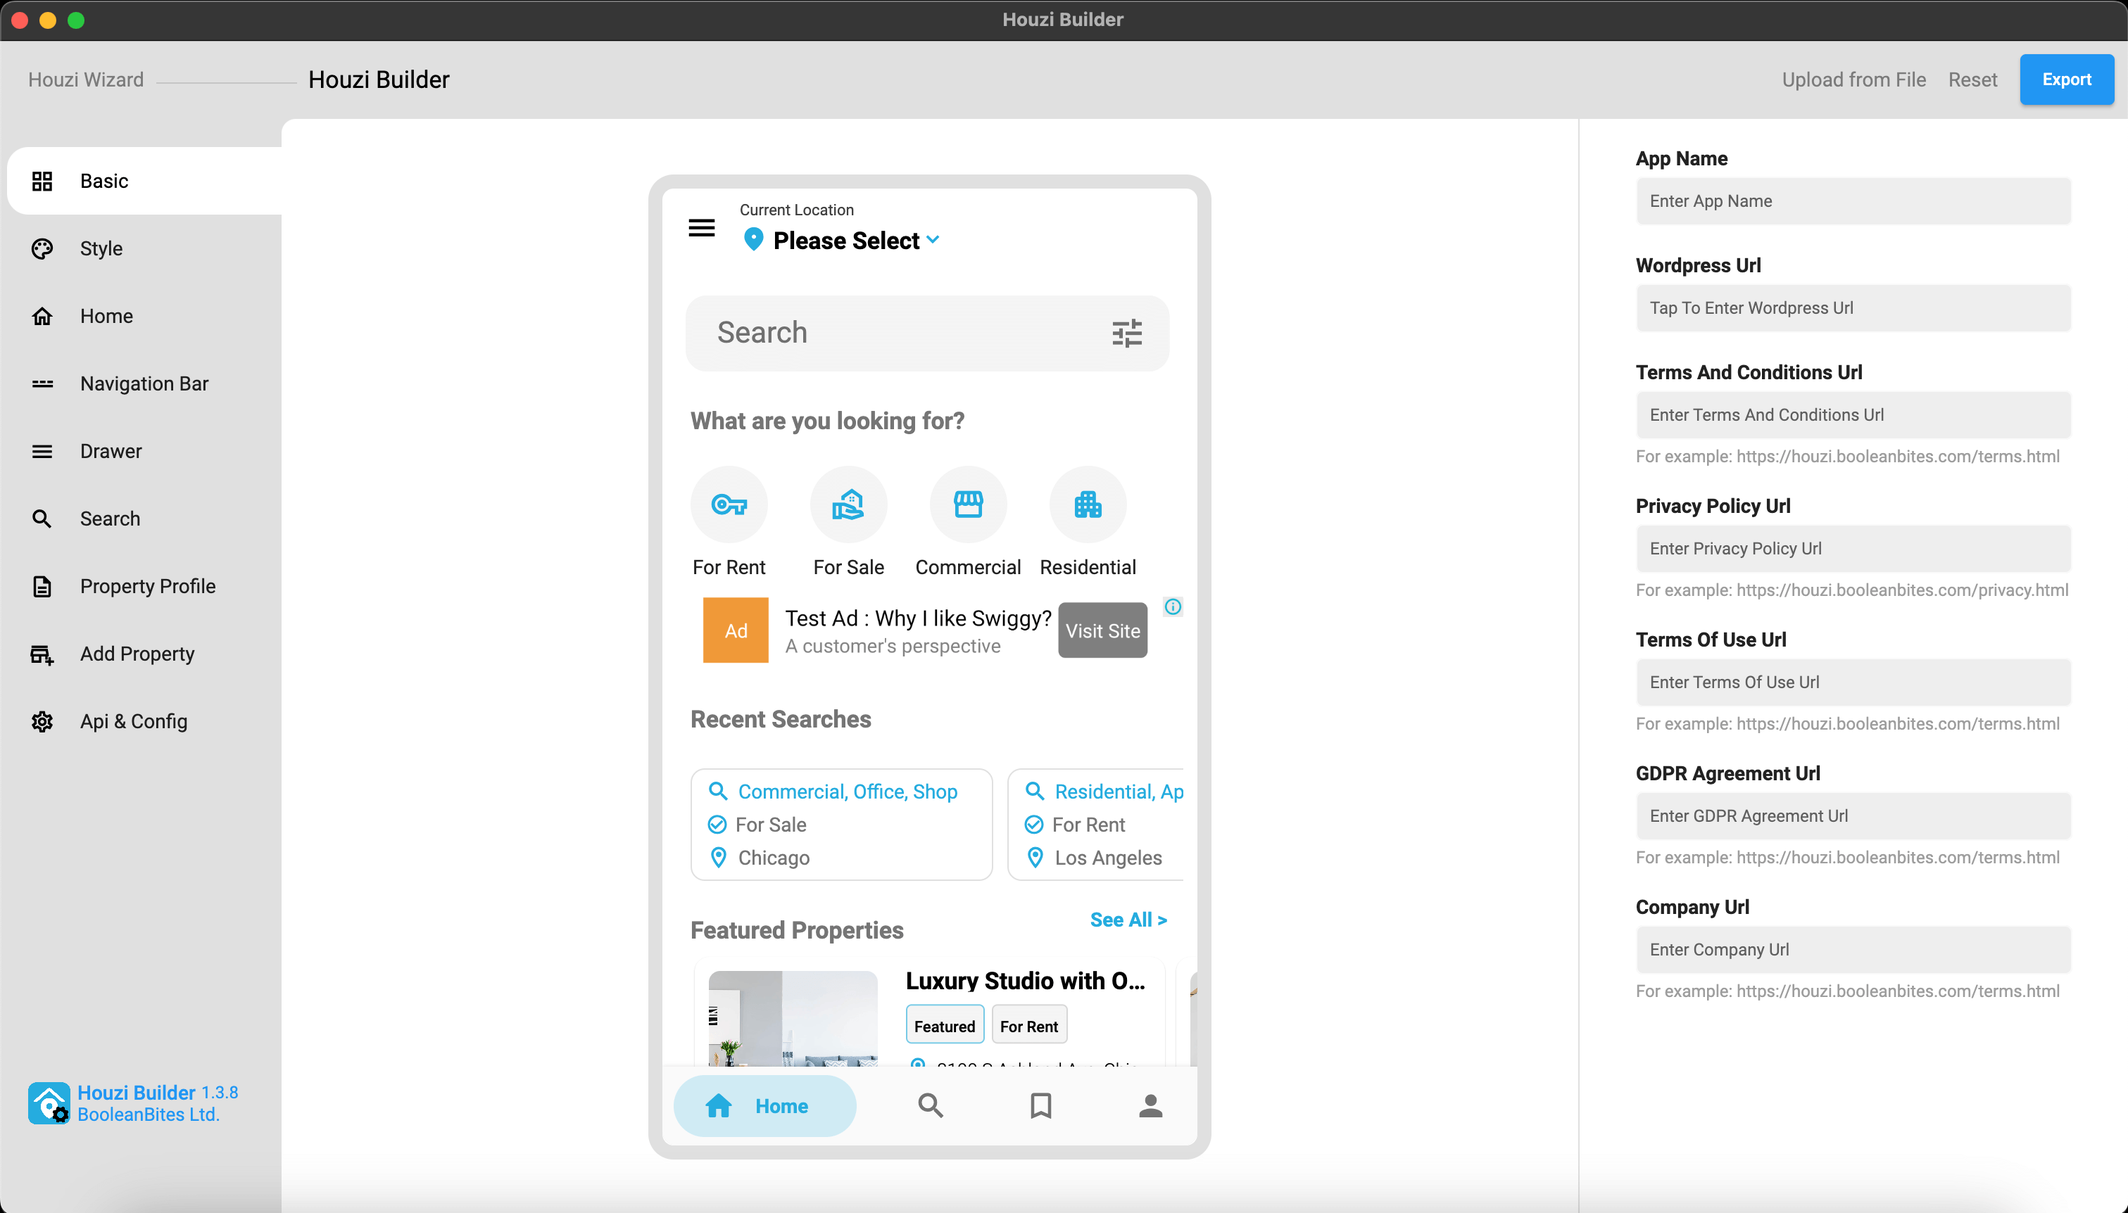
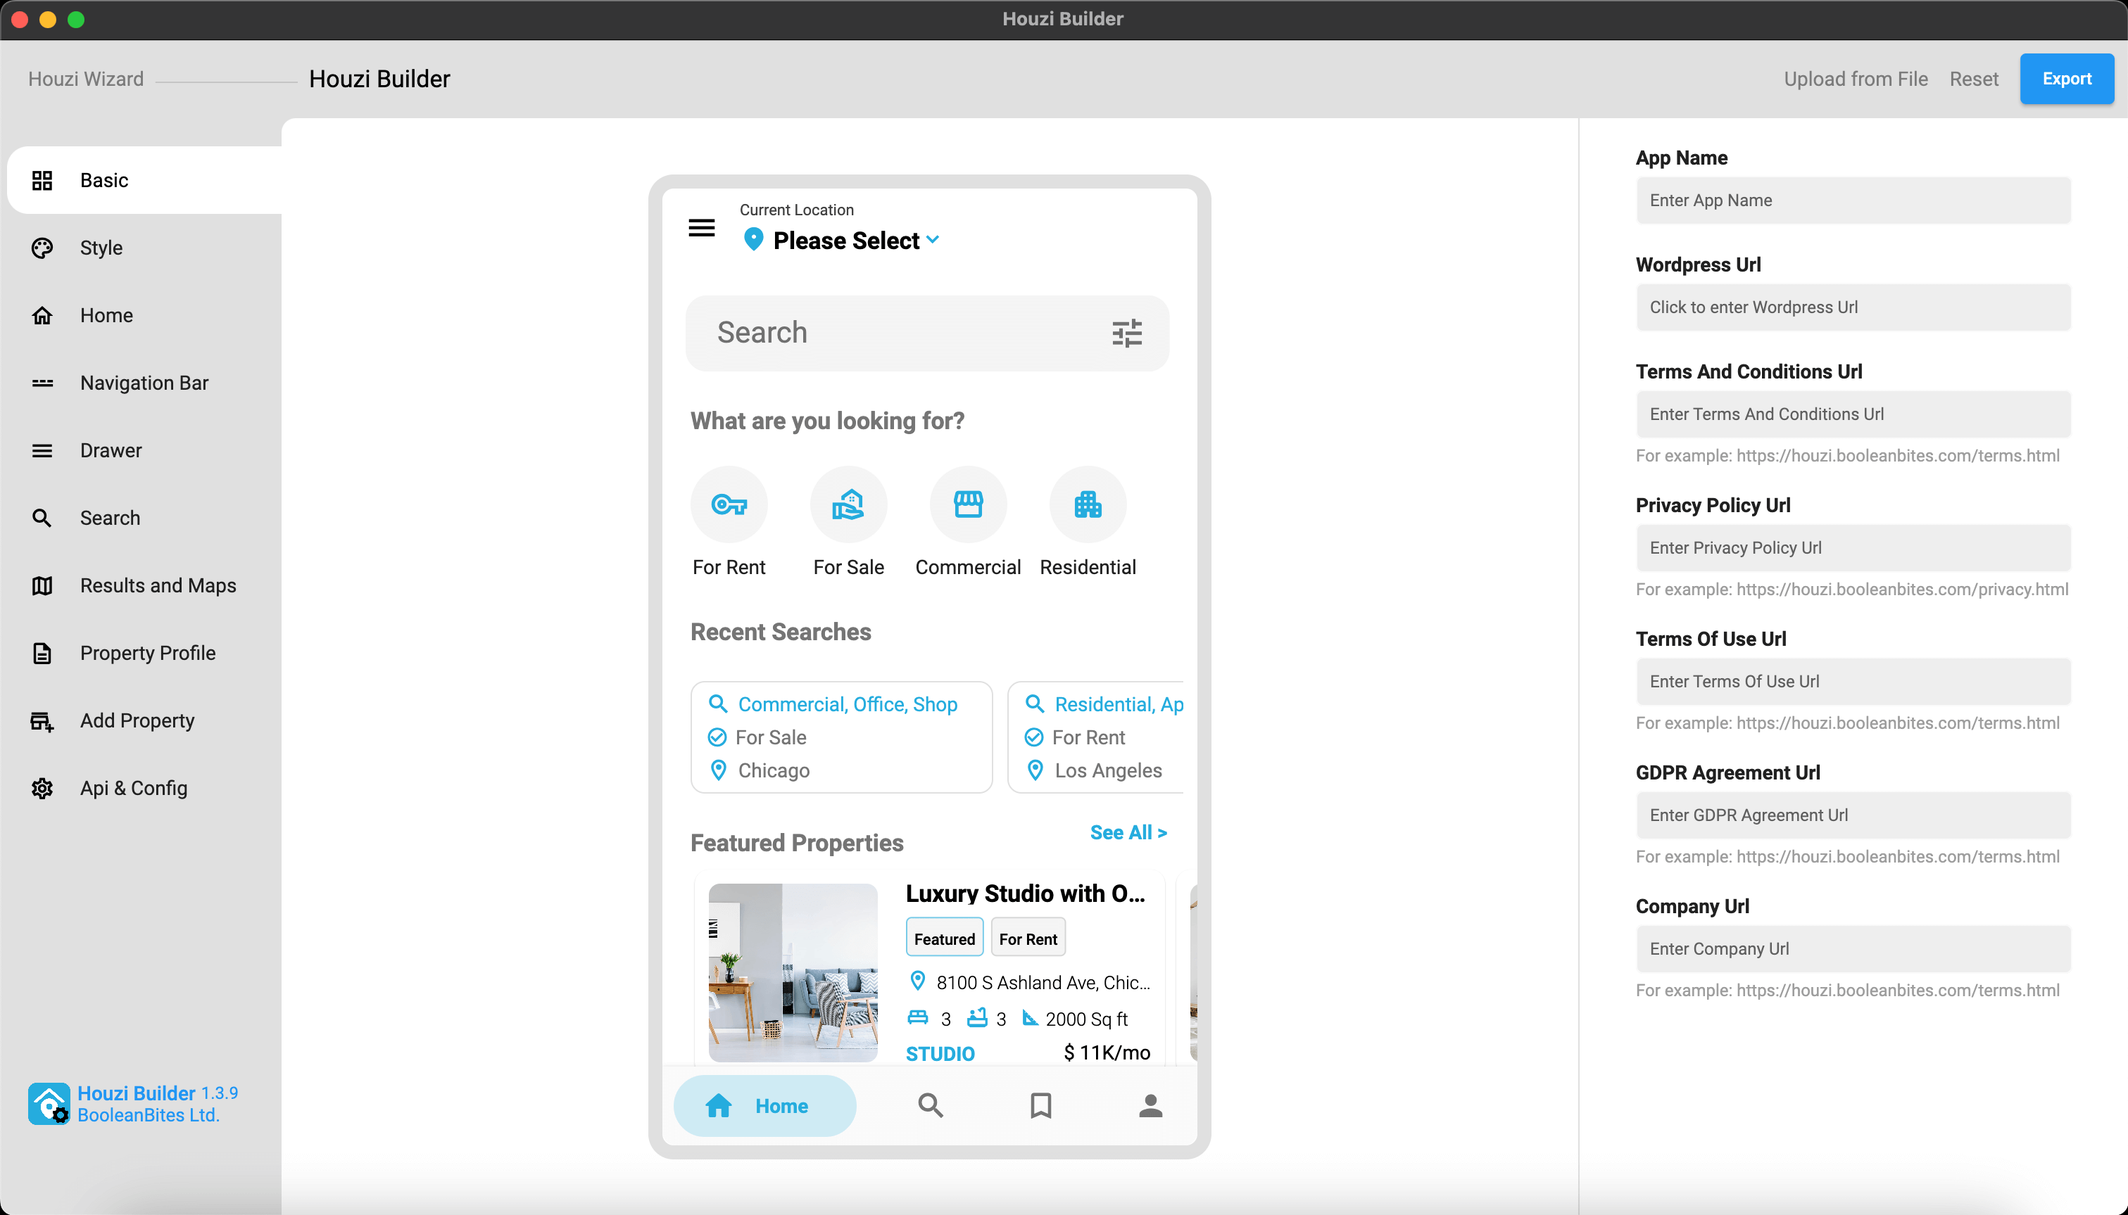
Updated menu items main screen views (included the Results and Maps menu).

diff --git a/_docs/houzi-builder/10_customize-results-and-maps.md b/_docs/houzi-builder/10_customize-results-and-maps.md
@@ -1,0 +1,305 @@
+---
+title: Customize Results and Maps
+category: Houzi Builder
+permalink: houzi-builder/customize_results_and_maps
+order: 410
+---
+
+> **Important**: You are required to install the Houzi Rest Api Plugin on your Houzez wordpress. To install the Plug-in, click on [Houzi Rest Api Plugin Link](https://github.com/booleanbites/houzi-rest-api).
+
+> A **Mobile App View** is provided in the center of screen, so you can see how the modifications will look on real device.  
+
+<img src="../../images/search-screenshot.png" alt="search-screenshot" title="search-screenshot" border= "1px solid"/>  
+
+> You can **Enable** *Cupertino Sliding Segment Control* instead of using Material Segment Control from [Api and Config](../houzi-builder/api_config_setup) section. 
+
+This guide consists of following sections:
+
+[Add New Section](#add-new-section)  
+[Edit a Section](#edit-a-section)  
+[Delete a Section](#delete-a-section)  
+[Re-arrange a Section](#re-arrange-a-section)  
+
+Let's dive into the details of each section.  
+
+---  
+
+
+# Add New Section 
+
+There is a **Add** button at the bottom of the column. Press this button and a dialog box will open.  
+
+  <img src="../../images/search-add-section-screenshot.png" alt="search-add-section-screenshot" title="search-add-section-screenshot" width= 300 border= "1px solid"/>  
+
+You will encounter following fields on the dialog box:
+
+[Widget Type](#widget-type)  
+[Title](#title)  
+[Data Type](#data-type)  
+[Api Value](#api-value)  
+[Picker Type](#picker-type)  
+[Additional Fields](#additional-fields)  
+
+### Widget Type:
+
+You are provided with the dropdown list of  **Widget Types**. The details of widget types are as follows: 
+
+* **term_picker:** If you want to search properties w.r.t. their
+    - *Types* (e.g. apartment, office etc.)
+    - *Status* (e.g. for-rent, for-sale etc.)
+    - *Label* (e.g. hot-offer, open-house etc.)
+    - *Features* (e.g. Air-Conditioning, Swimming-pool etc.)
+
+* **sequential_location_picker:** If you want to search properties w.r.t. their location and you do not want to use multiple pickers (e.g. one term picker for country, another for state, location picker for city and another term picker for the area input). You can simply use "**sequential_location_picker**".  You can enable/disable any location related term from the multi-select menu. Search with sequential_location_picker provide suppport for the following terms.
+  - *property_country*.
+  - *property_state*.
+  - *property_city*.
+  - *property_area*.
+
+* **location_picker:** If you want to search properties w.r.t. their
+    - *City*
+    - *Location*
+
+* **range_picker:** If you want to search properties w.r.t. their
+    - *Area*
+    - *Price*
+
+* **string_picker:** If you want to search properties w.r.t. specific attributes like
+    - *Bedrooms*
+    - *Bathrooms*
+ 
+* **keyword_picker:** If you want to search properties w.r.t. some keywords e.g. Modern appartment with 2 bedrooms and 2 bathrooms etc.
+
+* **custom_keyword_picker:** If you want to search properties w.r.t. some specified keywords.
+
+* **keyword_custom_query_picker:** If you want to search properties w.r.t. some customized keyword query. You can define the *keyword* and send your custom query on its behalf.  
+
+* **custom_field_picker:** If you want to search properties w.r.t. some custom field attributes. 
+
+  <img src="../../images/search-widget-types-screenshot.png" alt="search-widget-types-screenshot" title="search-widget-types-screenshot" width= 300 border= "1px solid"/>   
+
+  > **Custom Field Picker** depends upon the data of you website. If you have not defined any custom field, this picker would not available.  
+
+
+### Title:
+
+*Title* is label that will be displayed on the *Search Page. Define the **Title** of the section.
+
+
+### Data Type:
+
+You are provided with the dropdown list of **Data Types**. You can define the *Data Type* of the various sections as follows: 
+
+* If selected *Widget Type* is **term_picker**, you can select from following data types:  
+
+  - **property_type** (To search properties w.r.t. their type e.g. apartment, office etc.)
+
+  - **property_status** (To search properties w.r.t. their status e.g. for-rent, for-sale etc.)
+
+  - **property_feature** (To search properties w.r.t. their features e.g. Air-Conditioning, Swimming-pool etc.)
+
+  - **property_label** (To search properties w.r.t. their Label e.g. hot-offer, open-house etc.)
+
+  - **property_country** (To search properties w.r.t. Country)
+
+  - **property_state** (To search properties w.r.t. States)
+
+  - **property_city** (To search properties w.r.t. City)
+
+  - **property_area** (To search properties w.r.t. Area)
+
+    <img src="../../images/search-property-type-datatype-screenshot.png" alt="search-property-type-datatype-screenshot" title="search-property-type-datatype-screenshot" width= 300 border= "1px solid"/>
+
+  > Above displayed **Data Types** are *generic houzez taxonomies*. You may encounter all or some of these options, according to the data of your website.
+
+    
+* If selected *Widget Type* is **range_picker**, you can select from following data types:  
+
+  - **area** (To search properties within specific range of *area*)
+
+  - **price** (To search properties within specific range of *price*)
+
+    <img src="../../images/search-range-picker-area-datatype-screenshot.png" alt="search-range-picker-area-datatype-screenshot" title="search-range-picker-area-datatype-screenshot" width=300 border= "1px solid"/>  
+
+* If selected *Widget Type* is **string_picker**, you can select from following data types:  
+
+  - **bedrooms** (To search properties w.r.t. specific number of *bedrooms*)
+
+  - **bathrooms** (To search properties w.r.t. specific number of *bathrooms*)
+
+    <img src="../../images/search-string-picker-bedrooms-datatype-screenshot.png" alt="search-string-picker-bedrooms-datatype-screenshot" title="search-string-picker-bedrooms-datatype-screenshot" width=300 border= "1px solid"/>
+
+> All the other *Widget Types* have *Default* Data Types. 
+
+### Api Value:
+
+Each section has its by default **Api Value**.
+
+
+### Picker Type:
+
+You are provided with the dropdown list of  **Picker Types**. The details of picker types are as follows: 
+
+
+- If selected *Widget Type* is **term_picker**, you can select from following picker types:  
+
+  - **tabs and chips:** To view properties related categories and sub-categories data in the form of *Tabs and Chips*.
+
+  - **dropdown:** To view properties related categories and sub-categories data in the form of *Dropdown*.
+
+  - **full_screen:** To view properties related categories and sub-categories data in the form of *full_screen* menu. A new page will open, listing all the property related catagories with additional *Search Bar* to search required catagory with ease.
+
+  - **box:** To view properties related categories and sub-categories data in the form of *Grid View* having 3 catagories per row with their icons and titles.
+
+    <img src="../../images/search-term-picker-pickertype-screenshot.png" alt="search-term-picker-pickertype-screenshot" title="search-term-picker-pickertype-screenshot" width=300 border= "1px solid"/>
+
+  - If selected *Widget Type* is **string_picker**, you can select from following picker types:  
+
+  - **chips:** To view properties related arrtibutes in the form of *Chips*.
+
+  - **tabs:** To view properties related arrtibutes in the form of *Tabs*.
+
+    <img src="../../images/search-string-picker-pickertype-screenshot.png" alt="search-string-picker-pickertype-screenshot" title="search-string-picker-pickertype-screenshot" width=300 border= "1px solid"/>
+
+- If selected *Widget Type* is **custom_keyword_picker**, you can select from following picker types:  
+
+  - **text_field:** To take *Keyword* input from the user.
+
+  - **dropdown:** To provide users, a list of specified keywords in the form of *Dropdown Menu*.
+
+  - **string_picker:** To provide users, specified keywords in the form of *Tabs* or *Chips*.
+
+    <img src="../../images/search-custom-keyword-picker-pickertype-screenshot.png" alt="search-custom-keyword-picker-pickertype-screenshot" title="search-custom-keyword-picker-pickertype-screenshot" width=300 border= "1px solid"/>
+
+- If selected *Widget Type* is **keyword_custom_query_picker**, you can select from following picker types:
+
+  - **switch**
+
+  - **checkbox**
+
+    <img src="../../images/search-keyword-custom-query-picker-pickertype-screenshot.png" alt="search-keyword-custom-query-picker-pickertype-screenshot" title="search-keyword-custom-query-picker-pickertype-screenshot" width=300 border= "1px solid"/>
+
+> All the other *Widget Types* have *Default* Picker Type. 
+
+### Additional Fields
+
+You can define some additional customizations for some sections. For this purpose you are provided with some **Additional fields**. Their details are as follows:
+
+
+- If selected *Widget Type* is **location_picker**, you can set the value for the **Default Radius**. You can choose either to show **Search By City** or **Search By Location** or you can choose to show both.
+
+  <img src="../../images/default-radius.png" alt="default-radius" title="default-radius" width= 300 border= "1px solid"/> 
+  
+  <img src="../../images/location-picker-additional-fields.png" alt="location-picker-additional-fields" title="location-picker-additional-fields" width= 300 border= "1px solid"/> 
+
+- If selected *Widget Type* is **sequential_location_picker**, you can customize the **Location Picker Hierarchy** form the  multi-select dropdown menu.
+
+  <img src="../../images/slp-hierarchy-01.png" alt="slp-hierarchy-01" title="slp-hierarchy-01" width= 300 border= "1px solid"/> 
+  
+  <img src="../../images/slp-hierarchy-02.png" alt="slp-hierarchy-02" title="slp-hierarchy-02" width= 300 border= "1px solid"/> 
+
+- If selected *Widget Type* is **range_picker**, you can define the *minimun* and *maximun* range of section in **Min Value**, **Max Value** and **Steps** fields. 
+
+    <img src="../../images/range-picker-additional-fields.png" alt="range-picker-additional-fields" title="range-picker-additional-fields" width= 300 border= "1px solid"/>  
+
+- If selected *Widget Type* is **term_picker**, you can define the query type from dropdown menu in **Query Type** field. 
+
+  - **OR Query Type:** If you want that search properties which may include this specific **term**, use *OR* query type.
+
+  - **AND Query Type:** If you want that search properties which must include this specific **term**, use *AND* query type. 
+
+      <img src="../../images/query-type-field-screenshot.png" alt="query-type-field-screenshot" title="query-type-field-screenshot" width= 300 border= "1px solid"/> 
+
+      <img src="../../images/query-type-options-screenshot.png" alt="query-type-options-screenshot" title="query-type-options-screenshot" width= 300 border= "1px solid"/> 
+
+- If the selecetd *Widget Type* is **string_picker** you can define your comma seperated specific options for the picker in the **Options** field.
+    
+    <img src="../../images/options-additonal-field.png" alt="options-additonal-field" title="options-additonal-field" width= 300 border= "1px solid"/>
+
+- If selected *Widget Type* is **custom_keyword_picker**, you can define the **Unique key** and **Query Type**.  
+
+    <img src="../../images/search-custom-keyword-picker-dialog.png" alt="search-custom-keyword-picker-dialog" title="search-custom-keyword-picker-dialog" width=300 height=600 border= "1px solid"/>
+
+  - **Unique key** (Assign a unique key to this field e.g. *keyword-some-text*.)
+
+  - **Query Type**: (Assign a query type to this field from the dropdown menu.) It has two following types:
+
+    - **OR Query Type:** If you want that search properties which may include this specific keyword, use *OR* query type.
+
+    - **AND Query Type:** If you want that search properties which must include this specific keyword, use *AND* query type.  
+
+      <img src="../../images/query-type-field-screenshot.png" alt="query-type-field-screenshot" title="query-type-field-screenshot" width= 300 border= "1px solid"/> 
+
+      <img src="../../images/query-type-options-screenshot.png" alt="query-type-options-screenshot" title="query-type-options-screenshot" width= 300 border= "1px solid"/> 
+
+- If selected *Widget Type* is **custom_keyword_picker** and *Picker Type* is **dropdown** or **string_picker**. There are some additional fields as:
+
+    - If the selecetd field is **dropdown** you can define your comma seperated specific keywords in **Options** field.  
+
+      <img src="../../images/search-custom-keyword-picker-dialog-01.png" alt="search-custom-keyword-picker-dialog-01" title="search-custom-keyword-picker-dialog-01" width=300 border= "1px solid"/>  
+      
+    - If the selecetd field is **string_picker** you can define your comma seperated specific keywords in **Options** field. You can also specify *Sub-Picker Type* of *string_picker* i.e. *Chips* or *Tabs*.  
+
+      <img src="../../images/search-custom-keyword-picker-dialog-02.png" alt="search-custom-keyword-picker-dialog-02" title="search-custom-keyword-picker-dialog-02" width=300 border= "1px solid"/>  
+
+    - **Sub-Picker Types:**  
+
+      <img src="../../images/search-custom-keyword-picker-dialog-03.png" alt="search-custom-keyword-picker-dialog-03" title="search-custom-keyword-picker-dialog-03" width=300 border="1px solid"/>  
+
+  - If selected *Widget Type* is **keyword_custom_query_picker**, you can define the **Options**, **Unique key** and **Query Type**.  
+
+    <img src="../../images/search-keyword-custom-query-picker-dialog.png" alt="search-keyword-custom-query-picker-dialog" title="search-keyword-custom-query-picker-dialog" width=300 height=650 border= "1px solid"/>  
+
+  - **Options** (Define your comma seperated custom keyword query in this field.)
+
+  - **Unique key** (Assign a unique key to this field e.g. *keyword-some-text*.)
+
+  - **Query Type**: (Assign a query type to this field from the dropdown menu.) It has two following types:
+
+    - **OR Query Type** If you want that search properties which may include this specific keyword, use *OR* query type.
+
+    - **AND Query Type** If you want that search properties which must include this specific keyword, use *AND* query type.
+
+      <img src="../../images/query-type-field-screenshot.png" alt="query-type-field-screenshot" title="query-type-field-screenshot" width= 300 border= "1px solid"/> 
+
+      <img src="../../images/query-type-options-screenshot.png" alt="query-type-options-screenshot" title="query-type-options-screenshot" width= 300 border= "1px solid"/> 
+    
+> Click `Done` to *add* the new section.  
+  Click `Cancel` to *discard* the action. 
+
+
+---
+
+## Edit a Section
+
+You can **Edit** the sections just by clicking on **Edit Icon** of respective section. While editing a section, you can perform following actions:
+
+- Modify section [Widget Type](#widget-type).
+- Modify section [Title](#title).
+- Modify section [Data Type](#data-type).
+- Modify section [Api Value](#api-value).
+- Modify section [Picker Type](#picker-type).
+- Modify section [Additional Fields](#additional-fields).
+
+---
+
+## Delete a Section
+
+You can **Delete** any section just by clicking on *delete icon* of respective section. A delete confirmation dialog will open.  
+
+  <img src="../../images/search-list-tile-screenshot.png" alt="search-list-tile-screenshot" title="search-list-tile-screenshot" width=300 border= "1px solid"/>  
+
+  <img src="../../images/search-delete-section-screenshot.png" alt="search-delete-section-screenshot" title="search-delete-section-screenshot" width=300 border= "1px solid"/>  
+  
+> Click **Delete** if you want to *delete* the section.  
+  Click **Cancel** if you want to *discard* the action. 
+
+---
+
+## Re-arrange a Section
+
+You can **Re-arrange** the sections on **Search Page**. Hold the section that you want to re-arrange and move it vertically (*upwards* or *downwards*). Place it on desire position in sections list.
+
+<img src="../../images/search-re-arrange-01.png" alt="search-re-arrange-01" title="search-re-arrange-01" width= 400 border= "1px solid"/> 
+
+<img src="../../images/search-re-arrange-02.png" alt="search-re-arrange-02" title="search-re-arrange-02" width= 400 border= "1px solid"/> 

diff --git a/_docs/houzi-builder/12_customize-add-property-form.md b/_docs/houzi-builder/12_customize-add-property-form.md
@@ -2,7 +2,7 @@
 title: Customize Add Property Form
 category: Houzi Builder
 permalink: houzi-builder/customize_add_property_form
-order: 411
+order: 412
 ---
 
 > **Important**: You are required to install the Houzi Rest Api Plugin on your Houzez wordpress. To install the Plug-in, click on [Houzi Rest Api Plugin Link](https://github.com/booleanbites/houzi-rest-api).

diff --git a/_docs/houzi-builder/11_customize-property-profile.md b/_docs/houzi-builder/11_customize-property-profile.md
@@ -2,7 +2,7 @@
 title: Customize Property Profile
 category: Houzi Builder
 permalink: houzi-builder/customize_property_profile
-order: 410
+order: 411
 ---
 
 > **Important**: You are required to install the Houzi Rest Api Plugin on your Houzez wordpress. To install the Plug-in, click on [Houzi Rest Api Plugin Link](https://github.com/booleanbites/houzi-rest-api).

diff --git a/_docs/houzi-builder/13_api-and-configurations-setup.md b/_docs/houzi-builder/13_api-and-configurations-setup.md
@@ -2,7 +2,7 @@
 title: Api and Configurations Setup
 category: Houzi Builder
 permalink: houzi-builder/api_config_setup
-order: 412
+order: 413
 ---
 
 > **Important**: You are required to install the Houzi Rest API Plug-in on your Houzez wordpress. To install the Plug-in, click on [Houzi Rest Api Plugin Link](https://github.com/booleanbites/houzi-rest-api).

diff --git a/_docs/houzi-builder/15_edit-configurations.md b/_docs/houzi-builder/15_edit-configurations.md
@@ -2,7 +2,7 @@
 title: Edit/Update Configurations
 category: Houzi Builder
 permalink: houzi-builder/edit_configuration
-order: 414
+order: 415
 ---
 
 > **Important**: You are required to install the Houzi Rest Api Plugin on your Houzez wordpress. To install the Plug-in, click on [Houzi Rest Api Plugin Link](https://github.com/booleanbites/houzi-rest-api).

diff --git a/_docs/houzi-builder/14_export-configurations.md b/_docs/houzi-builder/14_export-configurations.md
@@ -2,7 +2,7 @@
 title: Export Configuration
 category: Houzi Builder
 permalink: houzi-builder/export_configuration
-order: 413
+order: 414
 ---
 
 > **Important**: You are required to install the Houzi Rest Api Plugin on your Houzez wordpress. To install the Plug-in, click on [Houzi Rest Api Plugin Link](https://github.com/booleanbites/houzi-rest-api).
